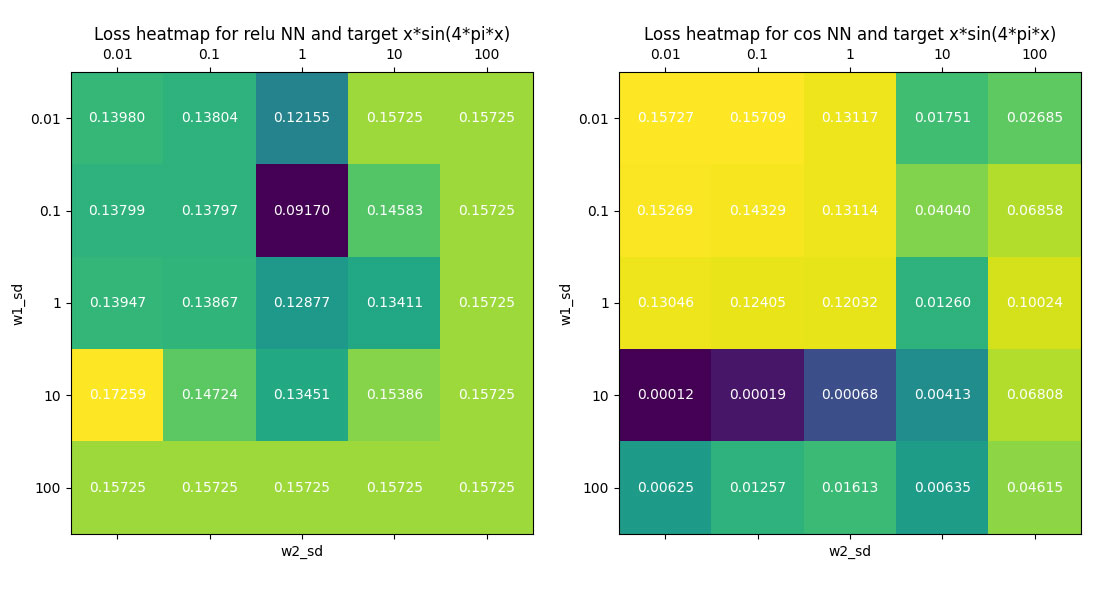
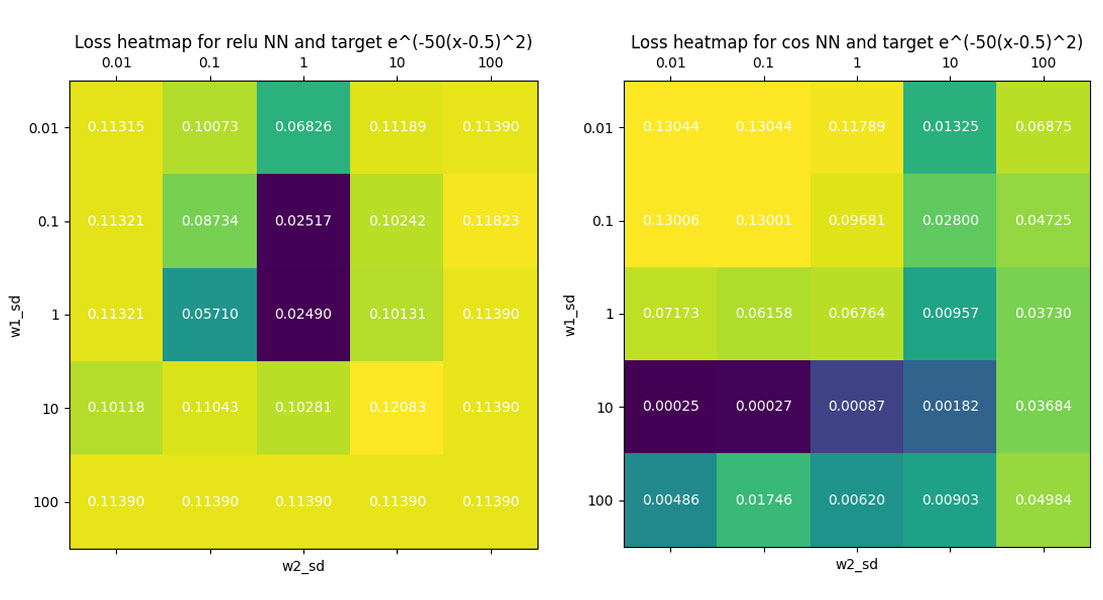
Update README.md

diff --git a/demo.py b/demo.py
@@ -128,13 +128,12 @@ epochs = 100
 learning_rate = 0.01
 n_samples = 100
 
-# Target function e^(-x^2)
 x = np.linspace(0, 1, n_samples).reshape(-1, 1)
-# y = np.exp(- x ** 2)
+y = np.exp(- 50 * (x - 0.5) ** 2)
 
 # Other possible target functions
 # y = 2 * x + 1
-y = x * np.sin(4 * np.pi * x)
+# y = x * np.sin(4 * np.pi * x)
 # y = np.piecewise(x, [x < 0.5, x >= 0.5], [lambda x: x, lambda x: 0.5-np.sin(8*np.pi*x)])
 # y = 2 * np.sqrt(1 - x ** 2)
 # y = np.piecewise(x, [x < 0, x >= 0], [lambda x: 0, lambda x: 1])
@@ -142,10 +141,10 @@ y = x * np.sin(4 * np.pi * x)
 train_network(
     x=x, 
     y=y, 
-    w1_sd=1, 
-    w2_sd=1, 
+    w1_sd=10, 
+    w2_sd=0.1, 
     epochs=epochs,
     learning_rate=learning_rate,
-    activation_type='relu', 
+    activation_type='cos', 
     plot=True
 )

diff --git a/README.md b/README.md
@@ -19,17 +19,17 @@ Therefore, we run some tests on single layer NNs and see that in some circumstan
 
 A single hidden layer NN with 32 nodes was trained with learning rate 0.01 using SGD on 100 data points and 100 epochs.
 
-When the weights are initialized correctly, the cosine activated NN outperforms the ReLU activated NN on fitting a variety of target functions. The example for target function $f(x)=x\sin{4\pi x}$ is shown below.
+When the weights are initialized correctly, the cosine activated NN outperforms the ReLU activated NN on fitting a variety of target functions. The example for target function $f(x)=e^{-50(x-1/2)^{2}}$ is shown as follows.
+
+From the figure below, the ReLU network with weights initialized with the standard normal $N(0,1)$ does not fit the function well.
 
 <img src="fig/relu_regression.jpg" width=600px>
 
-From the figure above, the ReLU network with weights initialized with the standard normal $N(0,1)$ does not fit the function well.
+From the figure below, the cosine network with weights initialized as $N(0, 10^2)$ and $N(0,0.1^2)$ for the first and second layers respectively gives a much better fit.
 
 <img src="fig/cos_regression.jpg" width=600px>
 
-From the figure above, the cosine network with weights initialized as $N(0, 10^2)$ and $N(0,0.1^2)$ for the first and second layers respectively gives a much better fit.
-
-The average loss (over 10 trials) for different weight initializations for NNs of the same architecture and target function are compared below.
+The weight initializations used above are optimal among those compared. The average loss (over 10 trials) for different weight initializations for NNs of the same architecture and target function are as follows:
 
 <img src="fig/heatmap.jpg" width=600px>
 
